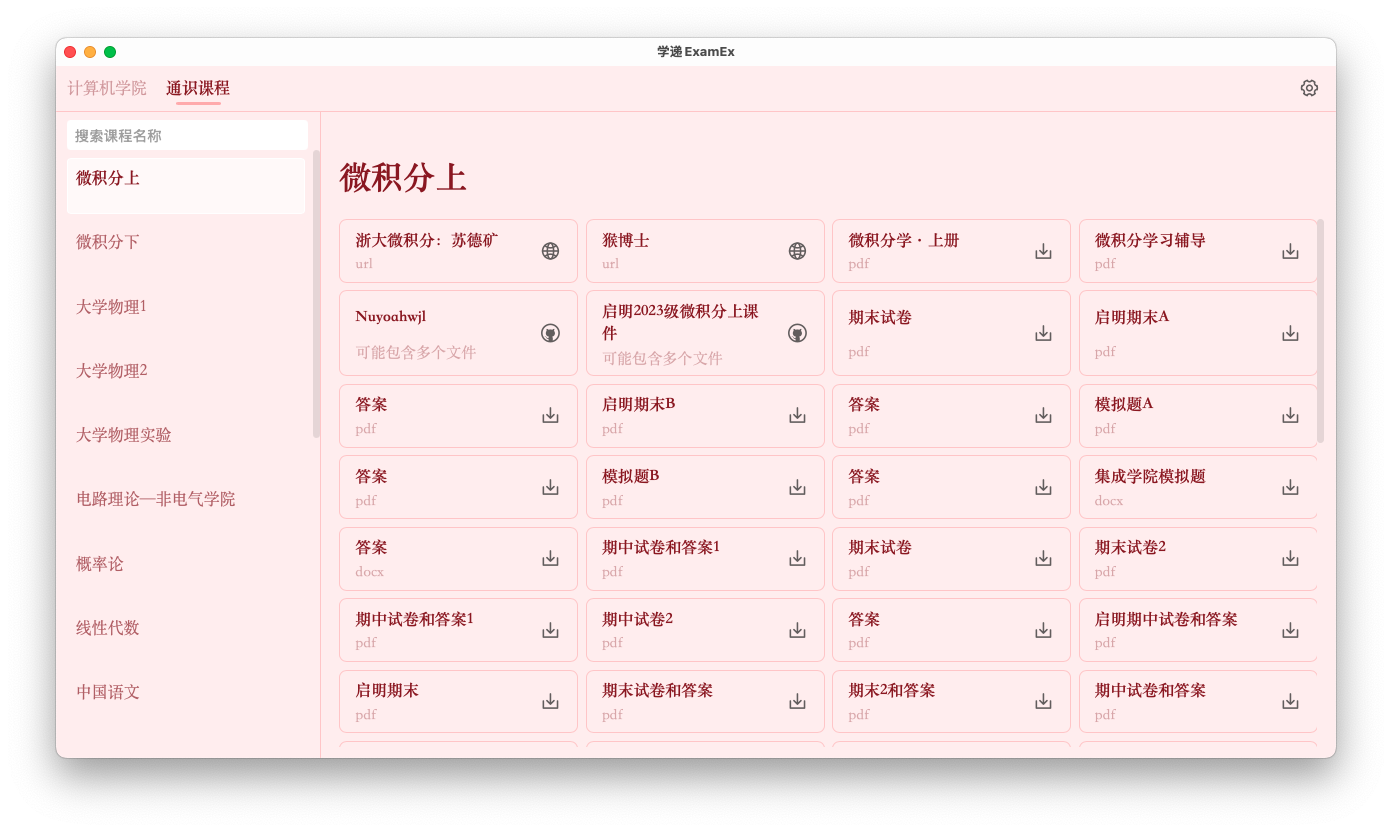
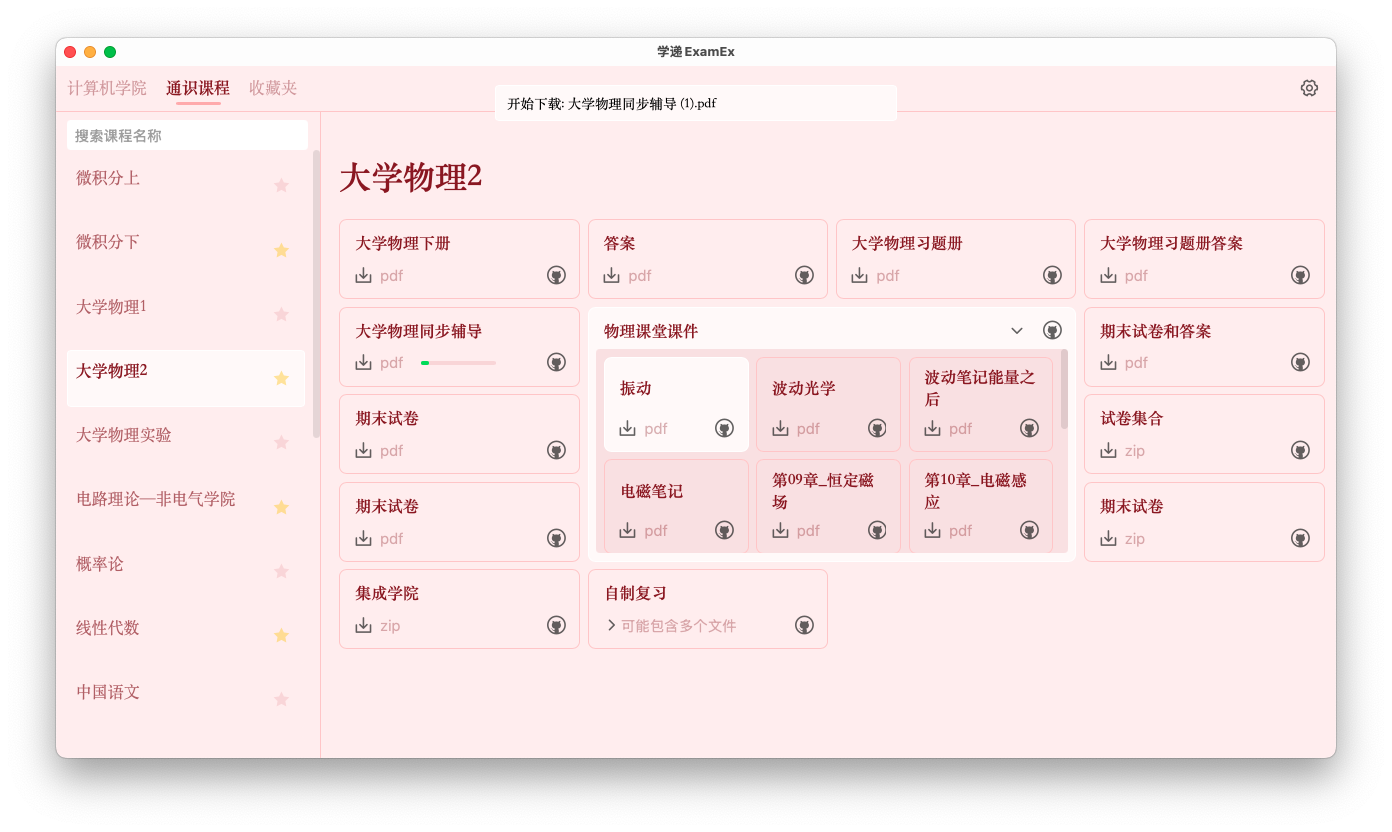
docs: update preview picture and readme

diff --git a/README.md b/README.md
@@ -23,7 +23,7 @@
 ![预览](./docs/preview.png)
 
 ### ToDo
-- [ ] 课程收藏夹
+- [x] 课程收藏夹
 - [ ] 可选下载路径
 - [x] 多文件目录资源的扁平化(深度1)展示
 - [ ] md非链接内容的解析与美化渲染
